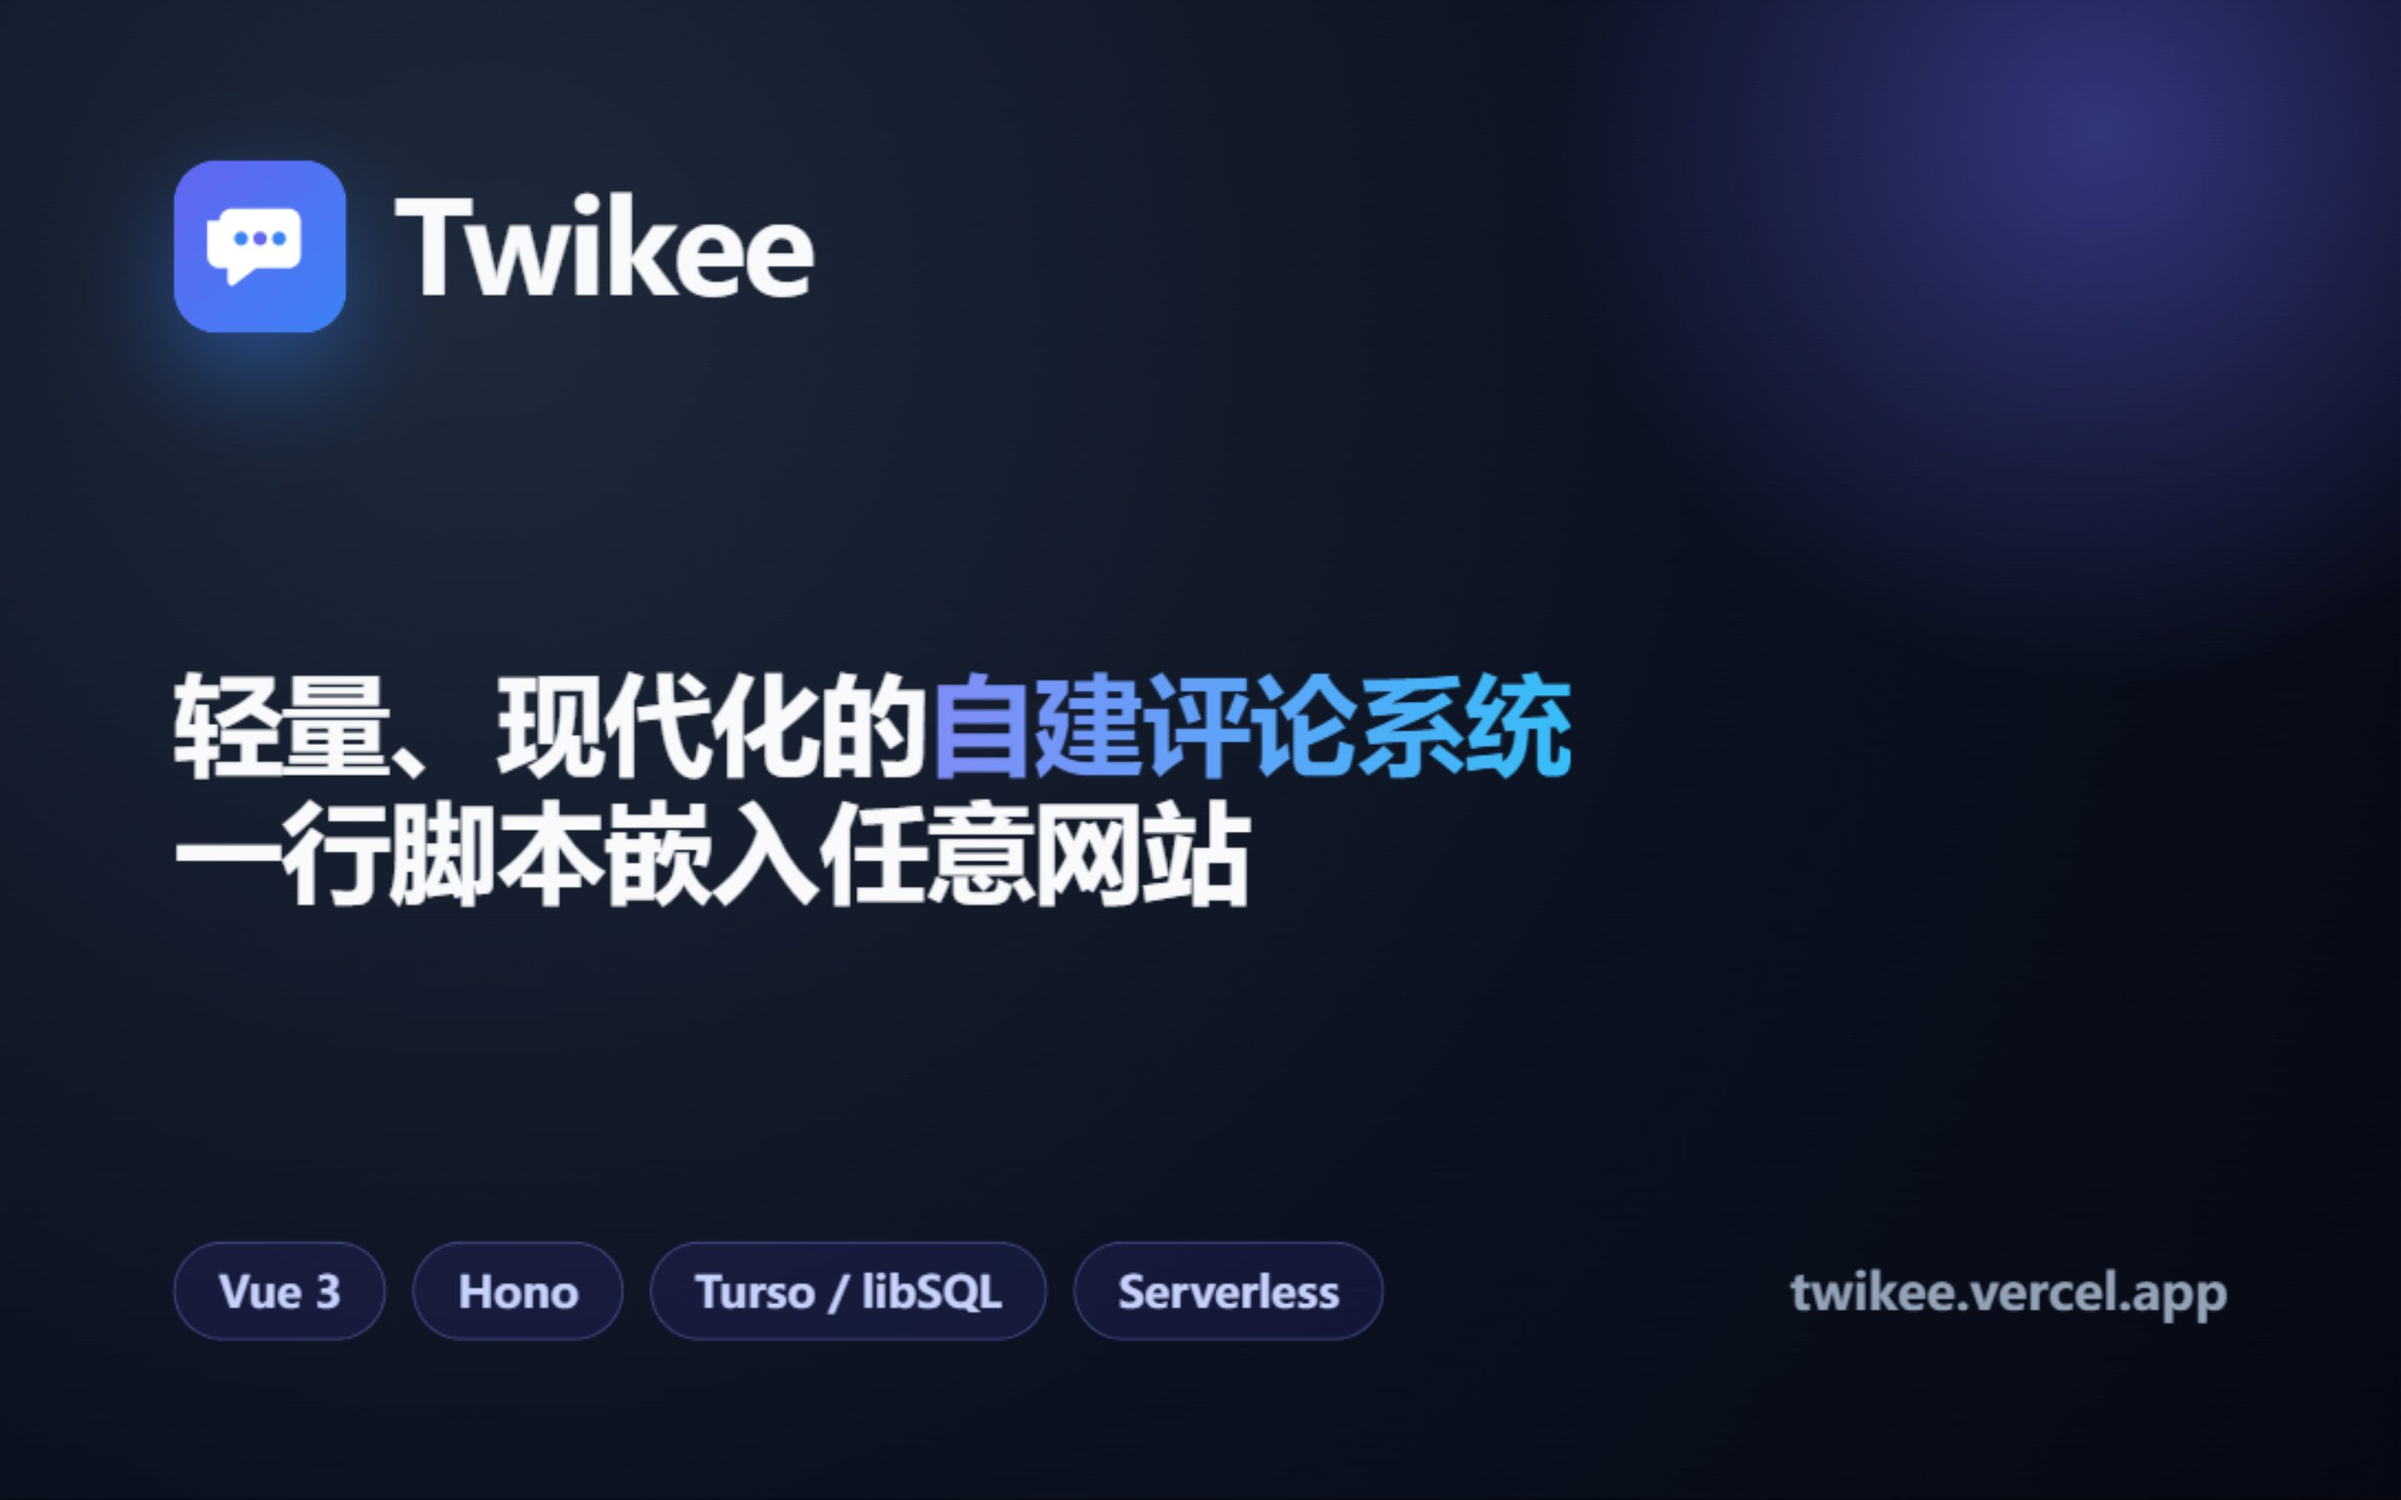
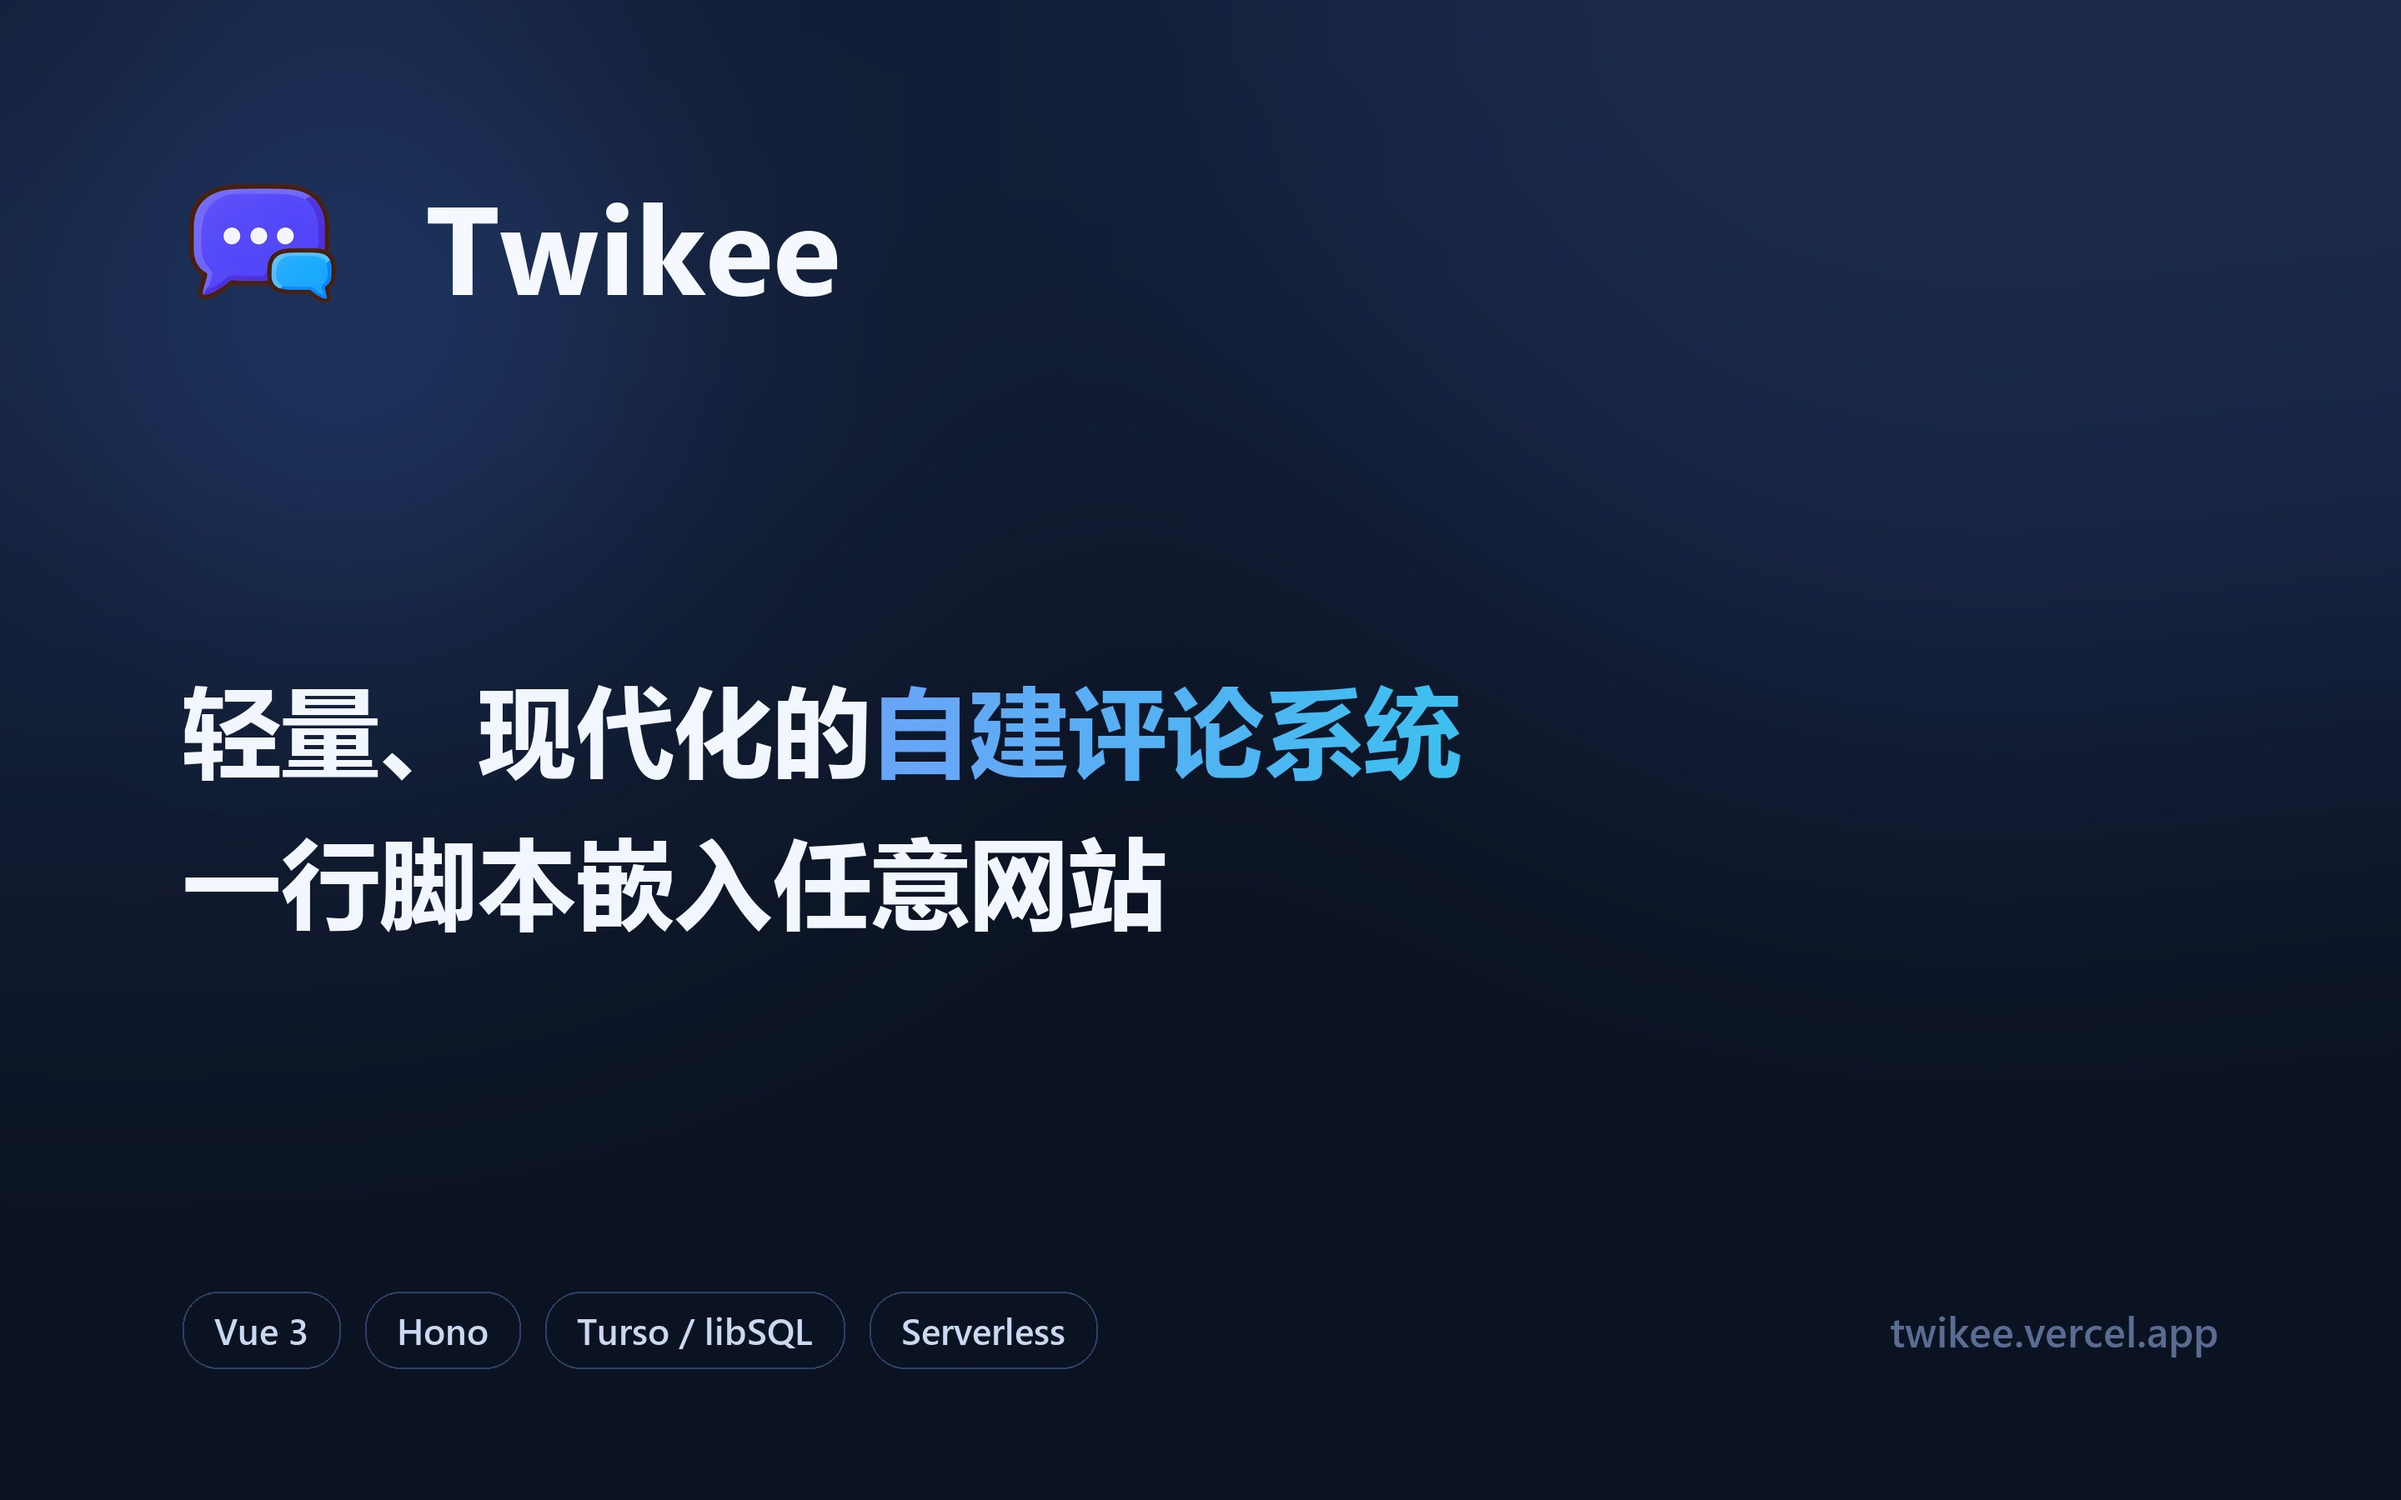
docs: 文档与代码对齐 + 换新图标
- README: 项目结构补上顶层 api/（Vercel Serverless 入口）与 scripts/，
  说明 vercel.json 的 /api、/demo、/admin 重写关系
- README: 快速开始补 /demo、/admin 本地路径与 API 端口；接入片段补
  appearance 可选参数与 twikee.initAdmin
- frontend: dev server 加 /admin、/demo 重写（对齐 vercel.json），
  本地不再 404
- 图标: 洋红底生图流程重制 logo（512px 透明 PNG），docs 的
  favicon/apple-touch-icon/hero/导航与 demo/admin 页全部换新，
  删除旧 logo.svg；og.jpg 按原版式重制换新图标

diff --git a/packages/frontend/demo.html b/packages/frontend/demo.html
@@ -1,14 +1,15 @@
-<!DOCTYPE html>
+<!doctype html>
 <html lang="zh-CN">
-<head>
-  <meta charset="UTF-8">
-  <meta name="viewport" content="width=device-width, initial-scale=1.0">
-  <meta name="description" content="Twikee 评论系统的在线演示：支持 Markdown、嵌套回复、点赞与分页。">
-  <link rel="canonical" href="https://twikee.vercel.app/demo" />
-  <title>Twikee 评论系统演示</title>
-</head>
-<body>
-  <div id="app"></div>
-  <script type="module" src="/src/demo-entry.ts"></script>
-</body>
+  <head>
+    <meta charset="UTF-8" />
+    <meta name="viewport" content="width=device-width, initial-scale=1.0" />
+    <meta name="description" content="Twikee 评论系统的在线演示：支持 Markdown、嵌套回复、点赞与分页。" />
+    <link rel="canonical" href="https://twikee.vercel.app/demo" />
+    <link rel="icon" type="image/png" href="/favicon.png" />
+    <title>Twikee 评论系统演示</title>
+  </head>
+  <body>
+    <div id="app"></div>
+    <script type="module" src="/src/demo-entry.ts"></script>
+  </body>
 </html>

diff --git a/packages/frontend/vite.config.ts b/packages/frontend/vite.config.ts
@@ -1,11 +1,24 @@
-import { defineConfig } from 'vite'
+import { defineConfig, type Plugin } from 'vite'
 import vue from '@vitejs/plugin-vue'
 import dts from 'vite-plugin-dts'
 import tailwindcss from '@tailwindcss/vite'
 import { resolve } from 'path'
 
+// 与 vercel.json 的 rewrite 对齐：本地也能用 /admin、/demo 访问对应页面
+const servePrettyUrls: Plugin = {
+  name: 'serve-pretty-urls',
+  apply: 'serve',
+  configureServer(server) {
+    server.middlewares.use((req, _res, next) => {
+      if (req.url === '/admin') req.url = '/admin.html'
+      else if (req.url === '/demo') req.url = '/demo.html'
+      next()
+    })
+  },
+}
+
 export default defineConfig({
-  plugins: [vue(), tailwindcss(), dts({ include: ['src/**/*.ts', 'src/**/*.vue'] })],
+  plugins: [vue(), tailwindcss(), dts({ include: ['src/**/*.ts', 'src/**/*.vue'] }), servePrettyUrls],
   define: {
     'process.env': {},
   },

diff --git a/packages/frontend/admin.html b/packages/frontend/admin.html
@@ -1,13 +1,14 @@
-<!DOCTYPE html>
+<!doctype html>
 <html lang="zh-CN">
-<head>
-  <meta charset="UTF-8">
-  <meta name="viewport" content="width=device-width, initial-scale=1.0">
-  <meta name="robots" content="noindex, nofollow">
-  <title>Twikee 管理后台</title>
-</head>
-<body>
-  <div id="app"></div>
-  <script type="module" src="/src/admin-entry.ts"></script>
-</body>
+  <head>
+    <meta charset="UTF-8" />
+    <meta name="viewport" content="width=device-width, initial-scale=1.0" />
+    <meta name="robots" content="noindex, nofollow" />
+    <link rel="icon" type="image/png" href="/favicon.png" />
+    <title>Twikee 管理后台</title>
+  </head>
+  <body>
+    <div id="app"></div>
+    <script type="module" src="/src/admin-entry.ts"></script>
+  </body>
 </html>

diff --git a/packages/frontend/index.html b/packages/frontend/index.html
@@ -1,12 +1,13 @@
-<!DOCTYPE html>
+<!doctype html>
 <html lang="zh-CN">
-<head>
-  <meta charset="UTF-8">
-  <meta name="viewport" content="width=device-width, initial-scale=1.0">
-  <title>Twikee 评论系统演示</title>
-</head>
-<body>
-  <div id="app"></div>
-  <script type="module" src="/src/demo-entry.ts"></script>
-</body>
+  <head>
+    <meta charset="UTF-8" />
+    <meta name="viewport" content="width=device-width, initial-scale=1.0" />
+    <link rel="icon" type="image/png" href="/favicon.png" />
+    <title>Twikee 评论系统演示</title>
+  </head>
+  <body>
+    <div id="app"></div>
+    <script type="module" src="/src/demo-entry.ts"></script>
+  </body>
 </html>

diff --git a/README.md b/README.md
@@ -16,7 +16,7 @@ cp .env.example .env
 pnpm dev
 ```
 
-本地访问 `http://localhost:5173`，管理后台访问 `http://localhost:5173/admin`；启动时会自动打开组件演示页 `/demo.html`。
+本地访问 `http://localhost:5173`（启动时会自动打开组件演示页），在线演示 `http://localhost:5173/demo`，管理后台 `http://localhost:5173/admin`。后端 API 跑在 `http://localhost:3000`，前端 dev server 已代理 `/api`。
 
 ## 前端接入
 
@@ -30,6 +30,8 @@ pnpm dev
   })
 </script>
 ```
+
+`init` 还支持可选的 `appearance` 外观配置（预设、提交按钮、字段布局等）；管理后台通过 `twikee.initAdmin({ el, envId })` 单独挂载。完整参数见[前端接入](https://twikee.vercel.app/guide/integration.html)。
 
 ## 文档
 
@@ -52,12 +54,18 @@ pnpm dev:docs
 ## 项目结构
 
 ```
+api/                    # Vercel Serverless 入口：把 /api 请求转发给 Hono 应用
 packages/
-├── api/         # Hono 后端
-├── core/        # 领域逻辑、Turso 适配器、数据库迁移
-├── frontend/    # Vue 组件、管理后台、可嵌入产物
-└── docs/        # VitePress 文档站
+├── api/                # Hono 后端
+├── core/               # 领域逻辑、Turso 适配器、数据库迁移
+├── frontend/           # Vue 组件、管理后台、可嵌入产物
+└── docs/               # VitePress 文档站
+scripts/
+├── dev.ts              # 本地开发入口：同时启动 API 与前端
+└── build-site.mjs      # Vercel 构建时组装文档站、演示页与可嵌入产物
 ```
+
+生产部署由 `vercel.json` 把 `/api/*` 重写到 `api/[...slug].ts`、`/demo` 与 `/admin` 重写到对应页面；`scripts/build-site.mjs` 再把文档站、演示页和 `twikee.umd.js` / `style.css` 组装进同一个站点目录。
 
 ## 致谢
 

diff --git a/packages/docs/en/index.md b/packages/docs/en/index.md
@@ -8,7 +8,7 @@ hero:
   text: A lightweight, modern comment system
   tagline: Built with Vue 3 + Hono + Turso/libSQL — embed it anywhere with one script tag
   image:
-    src: /logo.svg
+    src: /logo.png
     alt: Twikee
   actions:
     - theme: brand

diff --git a/packages/docs/index.md b/packages/docs/index.md
@@ -8,7 +8,7 @@ hero:
   text: 轻量、现代化的自建评论系统
   tagline: 基于 Vue 3 + Hono + Turso/libSQL，一行脚本嵌入任意网站
   image:
-    src: /logo.svg
+    src: /logo.png
     alt: Twikee
   actions:
     - theme: brand
